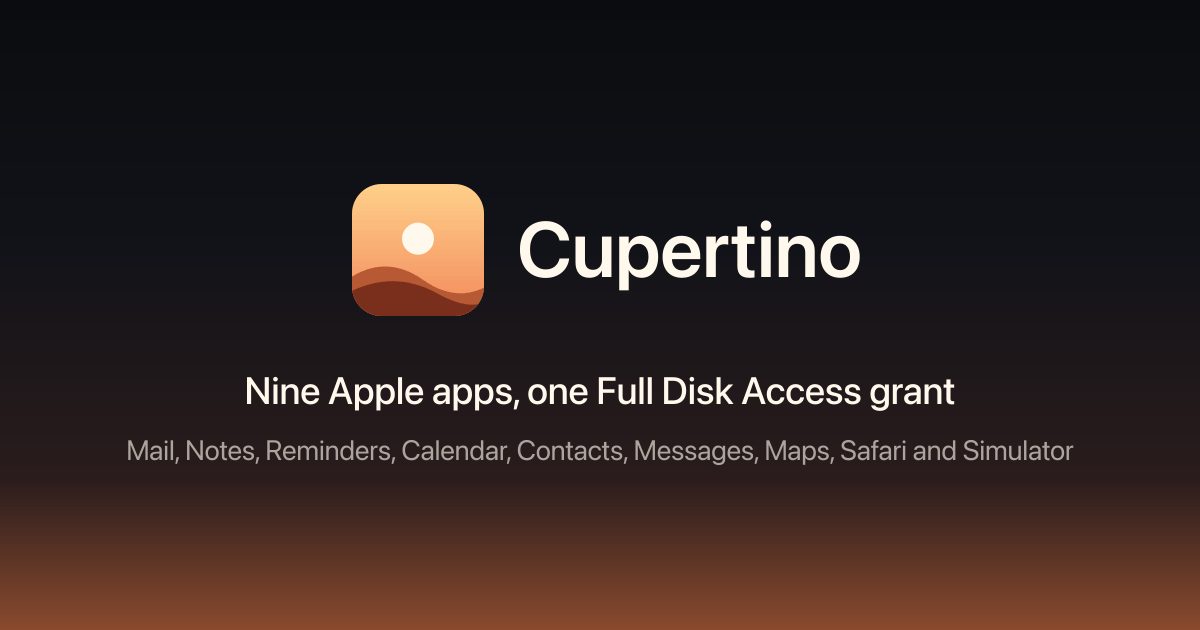
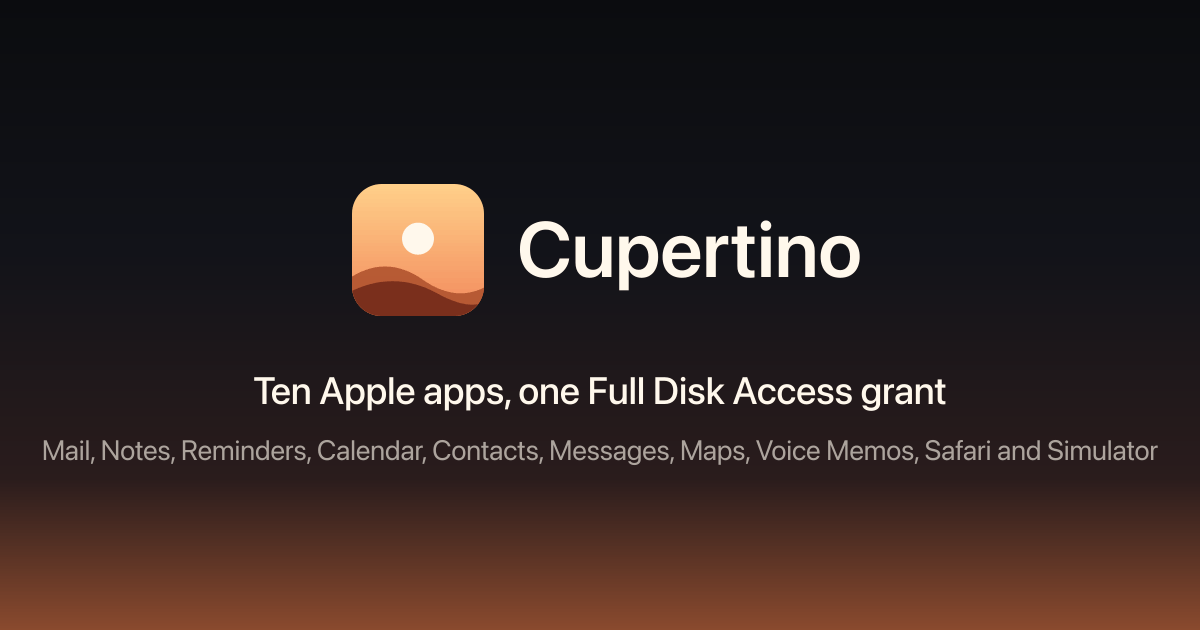
feat(website): list Voice Memos as a surface
The 1.38.0 release ships Voice Memos in the app, so the card the UNLISTED
note was waiting for comes with it: its six tools in surfaces.ts (five read,
save_recording behind the write gate), a waveform glyph, the privacy page's
list of what Cupertino reads, and the social card baked again, which now says
ten Apple apps.

llmsBullet spells a hyphenated id as words, so voice-memos finds the
"Voice Memos" bullet llms.txt already carries.

Changed region(s): [[0.0308, 0.6937, 0.9558, 0.754], [0.185, 0.6032, 0.8017, 0.6635]]

diff --git a/apps/website/src/data/surfaces.ts b/apps/website/src/data/surfaces.ts
@@ -363,6 +363,27 @@ export const SURFACES: readonly Surface[] = [
     withoutGrant: "Nothing at all — Maps is not scriptable, so the grant is the only way in.",
   },
   {
+    id: "voice-memos",
+    name: "Voice Memos",
+    pkg: "@mgcrea/mcp-apple-voice-memos",
+    read: [
+      "apple_voice_memos_list_folders",
+      "apple_voice_memos_list_recordings",
+      "apple_voice_memos_get_recording",
+      "apple_voice_memos_search_recordings",
+      "apple_voice_memos_diagnostics",
+    ],
+    // The one write copies a recording's audio OUT, into an export folder. Voice
+    // Memos ships no scripting dictionary, and its App Intents can only be run
+    // from Shortcuts, so nothing on this surface writes to the app itself. See
+    // docs/voice-memos.md.
+    write: ["apple_voice_memos_save_recording"],
+    pitch:
+      "Your recordings with their folders, favourites and Recently Deleted, and the transcript Apple made of each one, read straight out of the audio file with every segment's start and end, so a quote can be found again by listening. Search ignores case and accents. Recordings from before 2025 have none: Apple did not backfill. Behind the write gate, copies a recording's audio out for transcribing elsewhere.",
+    withoutGrant:
+      "Nothing at all — the recordings sit in a protected container and Voice Memos is not scriptable, so the grant is the only way in.",
+  },
+  {
     id: "screen",
     name: "Screen",
     // No npm package, and not an oversight: this surface is served by the app
